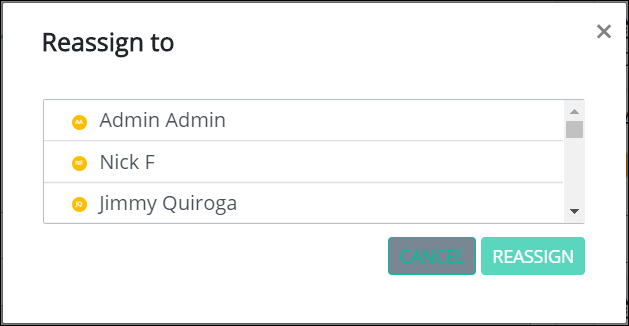
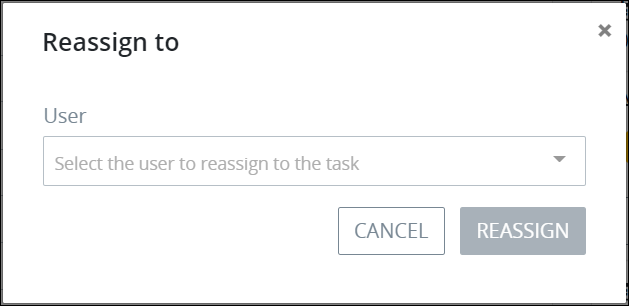
GitBook: [processmaker] 3 pages and 2 assets modified

diff --git a/using-processmaker/task-management/search-for-a-task.md b/using-processmaker/task-management/search-for-a-task.md
@@ -6,18 +6,14 @@ description: Search for any Task that has been assigned to you.
 
 ## Overview
 
-Do [basic](../requests/search-for-a-request.md#basic-search-for-a-request) or [advanced](../requests/search-for-a-request.md#advanced-search-for-a-request) searches for Requests. Search results display only for Requests within the **Requests** page you are viewing. For example, performing a search from within the **My Requests** page displays results only for Requests within that page.
+Do [basic](../requests/search-for-a-request.md#basic-search-for-a-request) or [advanced](../requests/search-for-a-request.md#advanced-search-for-a-request) searches for Tasks. To do basic or advanced searches for Tasks, view one of the following **Tasks** pages:
 
-To do basic or advanced searches for Requests, view one of the following **Requests** pages:
-
-* **My Requests** page. See [View Your Requests That You Started](../requests/view-started-requests.md#view-your-requests).
-* **In Progress** page. See [View Requests That Are In Progress](../requests/view-in-progress-requests.md#view-in-progress-requests-in-which-you-are-participating).
-* **Completed** page. See [View Completed Requests](../requests/view-completed-requests.md#view-completed-requests-in-which-you-participated).
-* **All Requests** page. See [View All Requests](../requests/view-all-requests.md#view-all-requests-in-your-organization). \(Note that your ProcessMaker user account must have the [**Requests: View All Requests** permission](../../processmaker-administration/permission-descriptions-for-users-and-groups.md#requests) to view the **All Requests** page.\)
+* **To Do Tasks** page. See [View Tasks You Need to Do](view-tasks-you-need-to-do.md#view-your-assigned-tasks).
+* **Completed Tasks** page. See [View Completed Tasks](view-completed-tasks.md#view-completed-tasks).
 
 ## Basic Search for a Task
 
-Follow these steps to do a basic search for a Request within the Request page you are viewing:
+Follow these steps to do a basic search for a Task:
 
 1. View one of the **Requests** pages described in the [Overview](../requests/search-for-a-request.md#overview) of this topic.
 2. Ensure that the basic search fields are displaying on the **Requests** page you are viewing.  
@@ -27,19 +23,25 @@ Follow these steps to do a basic search for a Request within the Request page yo
    If not, then click the **Basic Search** button![](../../.gitbook/assets/basic-search-button.gif).
 
 3. Use Request data to search for Requests on the displayed page based on the following criteria:
-   * **Process:** Search using one or more Process names associated with a Request.
-   * **Status:** Search using one or more of the following Request statuses:
+   * **Process:** From the **Process** field, select one or more Process names associated with a Request as part of the search criteria. Type into **Process** field to filter Processes that display in the **Process** drop-down menu. To remove a Process that is currently selected, click the![](../../.gitbook/assets/remove-group-user-admin.png)icon for that Process or click `Enter` when the drop-down is visible.
+   * **Status:** From the **Status** field, select one or more Request statuses as part of the search criteria. Type into the **Status** field to filter statuses that display in the **Status** drop-down menu. To remove a Status that is currently selected, click the![](../../.gitbook/assets/remove-group-user-admin.png)icon for that status or click `Enter` when the drop-down is visible.
+
+     Search using one or more of the following Request statuses:
+
      * **In progress:** Include Requests that are in progress as part of your search criteria. Requests that are in progress are included by default when searching for Requests on the **In Progress** page.
      * **Completed:** Include Requests that are completed as part of your search criteria. Requests that are completed are included by default when searching for Requests on the **Completed** page.
      * **Error:** Include Requests that are in error as part of your search criteria.
      * **Canceled:** Include Requests that have been canceled as part of your search criteria.
-   * **Requester:** Search using one or more the ProcessMaker users who started a Request. The currently logged on ProcessMaker user is included by default when searching for Requests on the **My Requests** page.
-   * **Participants:** Search using one or more ProcessMaker users participating in a Request.
+
+   * **Requester:** From the **Requester** field, select one or more Requesters as part of your search criteria. A Requester is a ProcessMaker user who starts a Request. The currently logged on ProcessMaker user is included by default when searching for Requests on the **My Requests** page. Type into **Requester** field to filter requesters that display in the **Requester** drop-down menu. To remove a Requester that is currently selected, click the![](../../.gitbook/assets/remove-group-user-admin.png)icon for that requester or click `Enter` when the drop-down is visible.
+   * **Participants:** From the **Participants** field, select one or more Request participants as part of your search criteria. Type into **Participants** field to filter Request participants that display in the **Participants** drop-down menu. To remove a Request participant that is currently selected, click the![](../../.gitbook/assets/remove-group-user-admin.png)icon for that requester or click `Enter` when the drop-down is visible.
 4. Click the **Search** button![](../../.gitbook/assets/request-task-search-button.png)to search for Requests based on your entered criteria.
 
 ## Advanced Search for a Task
 
-1. Go to one of the following **Requests** pages described in the Overview of this topic.
+Follow these steps to do an advanced search for a Task:
+
+1. Go to one of the following **Requests** pages described in the [Overview](search-for-a-task.md#overview) of this topic.
 2. Ensure that the advanced search field is displaying on the **Requests** page you are viewing.  
 
    ![](../../.gitbook/assets/advanced-request-search-requests.png)

diff --git a/using-processmaker/task-management/view-a-task-summary.md b/using-processmaker/task-management/view-a-task-summary.md
@@ -32,7 +32,7 @@ Your user account or group membership must have the "Requests: Edit Task Data" p
 See the [Request permissions](../../processmaker-administration/permission-descriptions-for-users-and-groups.md#requests) or ask your ProcessMaker Administrator for assistance.
 {% endhint %}
 
-The **Data** tab displays data as entered into a Task from a previous participant of this Request in JSON format. Values in the **Data** tab can be changed from those entered by the previous Request participant.
+The **Data** tab displays in JSON format the data a previous participant of this Request entered. Values in the **Data** tab can be changed from those entered by the previous Request participant.
 
 ![&quot;Data&quot; tab displays editable values for a completed Task](../../.gitbook/assets/data-tab-completed-task-tasks.png)
 
@@ -46,9 +46,21 @@ Follow these steps to edit and save the values from those entered by a previous 
 
 The Task summary displays general information about the assigned Task. The summary displays beside the assigned Task.
 
+If the assigned Task is overdue, the summary's label displays **Overdue**.
+
+![Summary for an assigned Task that is overdue](../../.gitbook/assets/assigned-to-do-summary-active-overdue-tasks.png)
+
 If the assigned Task is not overdue, the summary's label displays **Open**.
 
 ![Summary for an assigned Task that is not overdue](../../.gitbook/assets/assigned-to-do-summary-active-open-tasks.png)
+
+The following summary displays about an assigned Task:
+
+* **Due:** The **Due** field displays the date and time the assigned Task is due.
+* **Assigned To:** The **Assigned To** field displays the avatar and full name of the person assigned the Task.
+* **Assigned:** The date and time the Task was assigned displays below the **Assigned To** field. The **Reassign** button displays if the Task can be reassigned. The time zone setting to display the time is according to the ProcessMaker 4 server unless your [user profile's](../profile-settings.md#change-your-profile-settings) **Time zone** setting is specified.
+* **Request:** The **Request** field displays the Process name associated with the Request preceded by its numerical iteration. Click the Process name to [view the Request summary](../requests/request-details/).
+* **Requested By:** The **Requested By** field displays the avatar and full name of the person who started the Request. Hover your cursor over a user's avatar to view that person's full name.
 
 {% hint style="info" %}
 ### Reassign a Task
@@ -61,7 +73,7 @@ Follow these steps to reassign a Task to another ProcessMaker user:
 
    ![](../../.gitbook/assets/reassign-to-screen-task-summary-tasks.png)
 
-2. Select the user in which to reassign the Task.
+2. Select the user to whom to reassign the Task.
 3. Click **Reassign**.
 
 ### What Happens if the Task Cannot Be Reassigned?
@@ -69,24 +81,13 @@ Follow these steps to reassign a Task to another ProcessMaker user:
 If the Task has not been configured that it can be reassigned, then the **Reassign** button does not display. Therefore, the Task assignee does not have the option to reassign the Task to another ProcessMaker user.
 {% endhint %}
 
-If an assigned Task is overdue, the summary's label displays **Overdue**.
-
-![Summary for an assigned Task that is overdue](../../.gitbook/assets/assigned-to-do-summary-overdue-tasks.png)
-
-The following summary displays about an assigned Task:
-
-* **Due:** The **Due** field displays the date and time the assigned Task is due.
-* **Assigned To:** The **Assigned To** field displays the avatar and full name of the person assigned the Task.
-* **Assigned:** The date and time the Task was assigned displays below the **Assigned To** field. The **Reassign** button displays if the Task can be reassigned. The time zone setting to display the time is according to the ProcessMaker 4 server unless your [user profile's](../profile-settings.md#change-your-profile-settings) **Time zone** setting is specified.
-* **Request:** The **Request** field displays the Process name associated with the Request preceded by its numerical iteration. Click the Process name to [view the Request summary](../requests/request-details/).
-* **Requested By:** The **Requested By** field displays the avatar and full name of the person who started the Request. Hover your cursor over a user's avatar to view that person's full name.
-
 ## Summary for a Completed Task
 
 The Task summary displays general information about the completed Task. Follow these steps to view the summary for a completed Task:
 
-1. [View all completed Tasks.](view-completed-tasks.md#view-completed-tasks) The **Completed Tasks** screen displays.
-2. Click the name of the Task from the **Name** column. The following message displays for the completed Task: **Task Completed**.  
+1. Ensure that you are [logged on](../log-in.md#log-on) to ProcessMaker.
+2. [View all completed Tasks.](view-completed-tasks.md#view-completed-tasks) The **Completed Tasks** screen displays.
+3. Click the name of the Task from the **Name** column. The following message displays for the completed Task: **Task Completed**.  
 
    ![](../../.gitbook/assets/task-completed-message-tasks.png)
 

diff --git a/using-processmaker/requests/search-for-a-request.md b/using-processmaker/requests/search-for-a-request.md
@@ -6,9 +6,7 @@ description: Search for any Request in which you started or have been a particip
 
 ## Overview
 
-Do [basic](search-for-a-request.md#basic-search-for-a-request) or [advanced](search-for-a-request.md#advanced-search-for-a-request) searches for Requests. Search results display only for Requests within the **Requests** page you are viewing. For example, performing a search from within the **My Requests** page displays results only for Requests within that page.
-
-To do basic or advanced searches for Requests, view one of the following **Requests** pages:
+Do [basic](search-for-a-request.md#basic-search-for-a-request) or [advanced](search-for-a-request.md#advanced-search-for-a-request) searches for Requests. To do basic or advanced searches for Requests, view one of the following **Requests** pages:
 
 * **My Requests** page. See [View Your Requests That You Started](view-started-requests.md#view-your-requests).
 * **In Progress** page. See [View Requests That Are In Progress](view-in-progress-requests.md#view-in-progress-requests-in-which-you-are-participating).
@@ -17,7 +15,7 @@ To do basic or advanced searches for Requests, view one of the following **Reque
 
 ## Basic Search for a Request
 
-Follow these steps to do a basic search for a Request within the Request page you are viewing:
+Follow these steps to do a basic search for a Request:
 
 1. View one of the **Requests** pages described in the [Overview](search-for-a-request.md#overview) of this topic.
 2. Ensure that the basic search fields are displaying on the **Requests** page you are viewing.  
@@ -43,7 +41,9 @@ Follow these steps to do a basic search for a Request within the Request page yo
 
 ## Advanced Search for a Request
 
-1. Go to one of the following **Requests** pages described in the Overview of this topic.
+Follow these steps to do an advanced search for a Request:
+
+1. Go to one of the following **Requests** pages described in the [Overview](search-for-a-request.md#overview) of this topic.
 2. Ensure that the advanced search field is displaying on the **Requests** page you are viewing.  
 
    ![](../../.gitbook/assets/advanced-request-search-requests.png)
